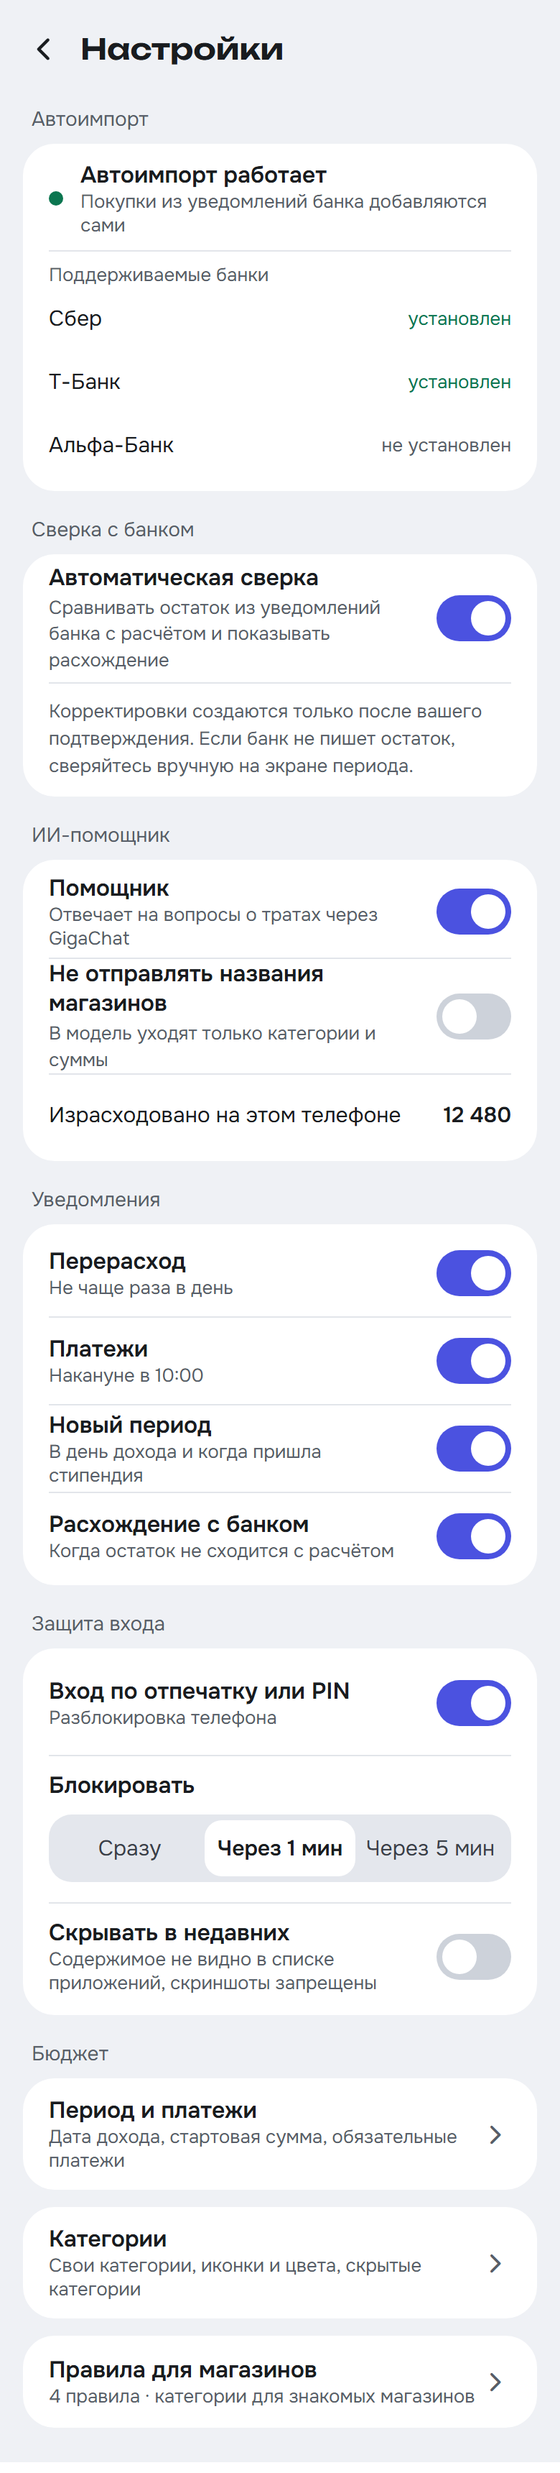
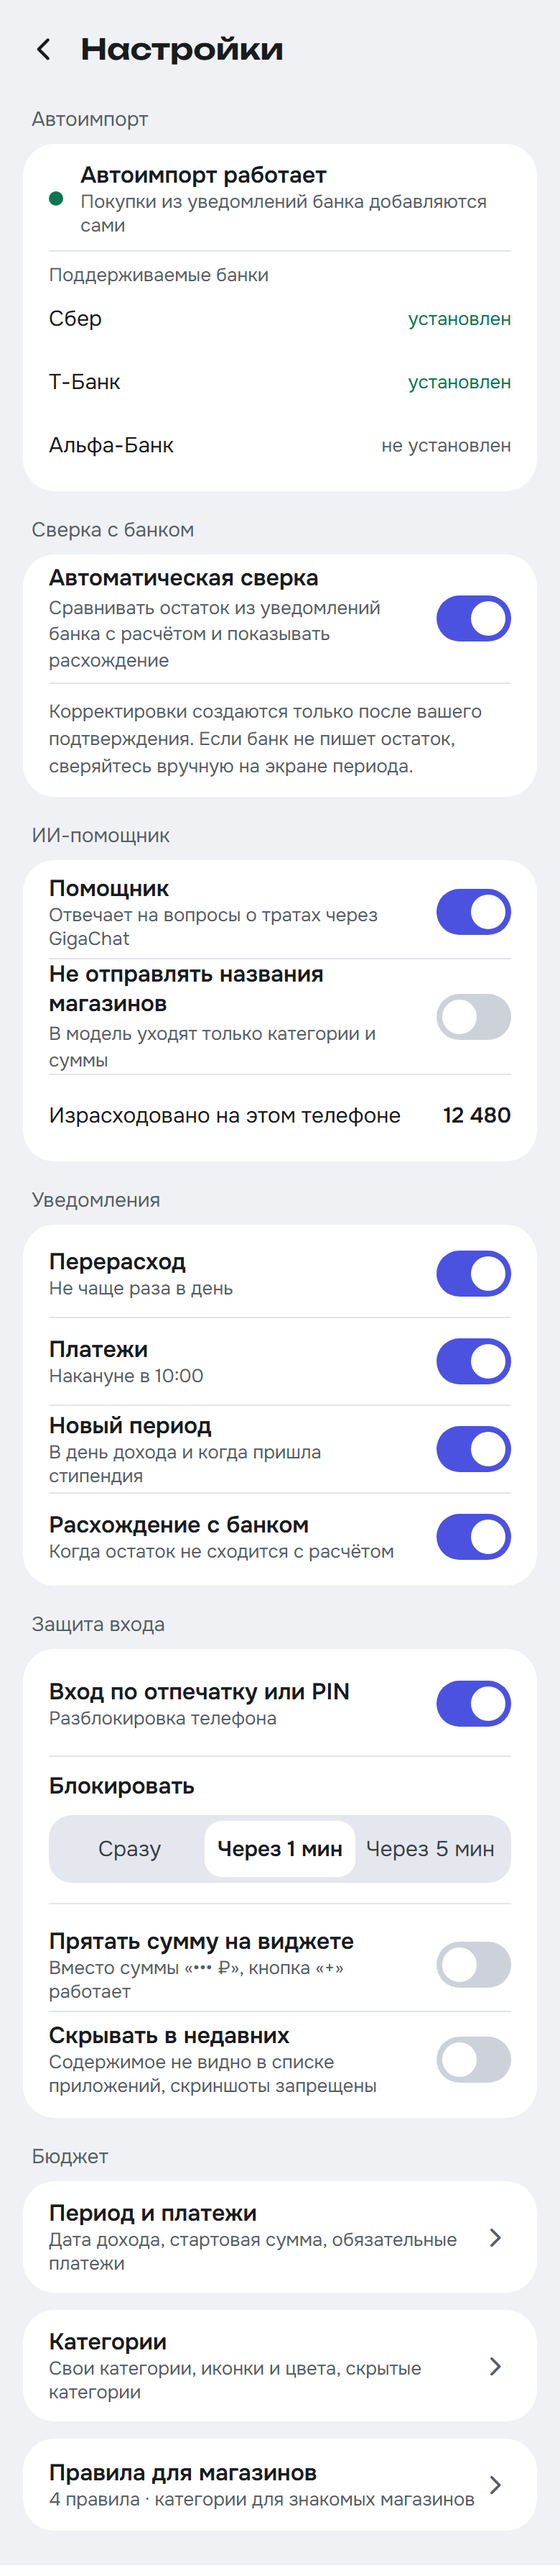
Виджет: две карточки, сумма при защите входа, короткие тире
В списке виджетов две карточки: «Можно сегодня» 2×1 и «Можно сегодня и «+»» 4×2. При защите входа сумма на виджете видна; спрятать её можно переключателем «Прятать сумму на виджете» в разделе «Защита входа». Длинные тире в текстах приложения заменены короткими.

diff --git a/app/src/main/java/ru/hznik/budget/widget/BudgetWidget.kt b/app/src/main/java/ru/hznik/budget/widget/BudgetWidget.kt
@@ -84,7 +84,7 @@ interface WidgetEntryPoint {
  * только сумма, средний 4×2 — сумма, доля лимита, дни до дохода и кнопка «+». Шрифты проекта виджету
  * недоступны (система рисует его своими), поэтому текст системным шрифтом.
  */
-class BudgetWidget : GlanceAppWidget() {
+open class BudgetWidget : GlanceAppWidget() {
     override val sizeMode = SizeMode.Responsive(setOf(SMALL, MEDIUM))
 
     override suspend fun provideGlance(context: Context, id: GlanceId) {
@@ -104,7 +104,7 @@ class BudgetWidget : GlanceAppWidget() {
         // Процесс мог запуститься ради виджета: базу сначала нужно проверить и открыть ключом.
         val ready = runCatching { entry.databaseAccess().open() == DatabaseState.READY }.getOrDefault(false)
         if (!ready) return flowOf(WidgetSnapshot.NoData)
-        return combine(entry.observePeriodStatus()(), entry.lockSettings().observe()) { status, lock -> WidgetSnapshot.of(status, lock.enabled) }
+        return combine(entry.observePeriodStatus()(), entry.lockSettings().observe()) { status, lock -> WidgetSnapshot.of(status, lock.widgetAmountHidden) }
             .distinctUntilChanged()
             .catch { emit(WidgetSnapshot.NoData) }
     }
@@ -115,14 +115,26 @@ class BudgetWidget : GlanceAppWidget() {
     }
 }
 
+/** Карточка «Можно сегодня» 2×1 в списке виджетов. */
 class BudgetWidgetReceiver : GlanceAppWidgetReceiver() {
     override val glanceAppWidget: GlanceAppWidget = BudgetWidget()
 }
+
+/**
+ * Карточка «Можно сегодня и «+»» 4×2: тот же виджет, другой стартовый размер и превью. Отдельный класс виджета,
+ * чтобы `updateAll` находил экземпляры каждой карточки.
+ */
+class BudgetWidgetLargeReceiver : GlanceAppWidgetReceiver() {
+    override val glanceAppWidget: GlanceAppWidget = BudgetWidgetLarge()
+}
+
+class BudgetWidgetLarge : BudgetWidget()
 
 /** Обновление всех виджетов на рабочем столе после изменения расчёта (решение 2). */
 class GlanceWidgetRefresher @Inject constructor(@ApplicationContext private val context: Context) : WidgetRefresher {
     override suspend fun refresh() {
         runCatching { BudgetWidget().updateAll(context) }
+        runCatching { BudgetWidgetLarge().updateAll(context) }
     }
 }
 

diff --git a/app/src/test/java/ru/hznik/budget/domain/reminders/NotificationPlannerTest.kt b/app/src/test/java/ru/hznik/budget/domain/reminders/NotificationPlannerTest.kt
@@ -6,6 +6,7 @@ import org.junit.Assert.assertTrue
 import org.junit.Test
 import ru.hznik.budget.domain.budget.BudgetCalculator
 import ru.hznik.budget.domain.budget.PeriodStatus
+import ru.hznik.budget.domain.lock.LockSettings
 import ru.hznik.budget.domain.model.Money
 import ru.hznik.budget.domain.model.Operation
 import ru.hznik.budget.domain.model.OperationSource
@@ -169,14 +170,21 @@ class NotificationPlannerTest {
 
     @Test
     fun `widget snapshot shows hides or has no data`() {
-        assertEquals(WidgetSnapshot.NoData, WidgetSnapshot.of(null, lockEnabled = false))
-        assertEquals(WidgetSnapshot.Hidden, WidgetSnapshot.of(status(), lockEnabled = true))
-        val shown = WidgetSnapshot.of(status(spentRubles = 100), lockEnabled = false) as WidgetSnapshot.Shown
+        assertEquals(WidgetSnapshot.NoData, WidgetSnapshot.of(null, amountHidden = false))
+        assertEquals(WidgetSnapshot.Hidden, WidgetSnapshot.of(status(), amountHidden = true))
+        val shown = WidgetSnapshot.of(status(spentRubles = 100), amountHidden = false) as WidgetSnapshot.Shown
         assertEquals(shown.dailyLimitKopecks - 100_00, shown.canSpendKopecks)
         assertTrue(shown.spentFraction > 0f && shown.spentFraction < 1f)
-        val over = WidgetSnapshot.of(status(spentRubles = 5_000), lockEnabled = false) as WidgetSnapshot.Shown
+        val over = WidgetSnapshot.of(status(spentRubles = 5_000), amountHidden = false) as WidgetSnapshot.Shown
         assertTrue(over.overspent)
         assertEquals(1f, over.spentFraction)
+    }
+
+    @Test
+    fun `widget amount is hidden only with lock and the switch`() {
+        assertEquals(false, LockSettings(enabled = true).widgetAmountHidden)
+        assertEquals(false, LockSettings(enabled = false, hideWidgetAmount = true).widgetAmountHidden)
+        assertEquals(true, LockSettings(enabled = true, hideWidgetAmount = true).widgetAmountHidden)
     }
 
     @Test

diff --git a/app/src/main/java/ru/hznik/budget/ui/settings/ProtectionSection.kt b/app/src/main/java/ru/hznik/budget/ui/settings/ProtectionSection.kt
@@ -68,6 +68,8 @@ class ProtectionViewModel @Inject constructor(private val repository: LockSettin
     fun setTimeout(timeout: LockTimeout) = viewModelScope.launch { repository.setTimeout(timeout) }
 
     fun setHideInRecents(hide: Boolean) = viewModelScope.launch { repository.setHideInRecents(hide) }
+
+    fun setHideWidgetAmount(hide: Boolean) = viewModelScope.launch { repository.setHideWidgetAmount(hide) }
 }
 
 /** Раздел «Защита входа» в настройках (spec app-lock, design.md add-data-protection, решение 10). */
@@ -138,6 +140,14 @@ fun ProtectionSection(viewModel: ProtectionViewModel = hiltViewModel()) {
                         onSelect = viewModel::setTimeout,
                     )
                 }
+                Divider()
+                SwitchRow(
+                    title = stringResource(R.string.protection_hide_widget),
+                    hint = stringResource(R.string.protection_hide_widget_hint),
+                    checked = current.hideWidgetAmount,
+                    enabled = true,
+                    onCheckedChange = viewModel::setHideWidgetAmount,
+                )
             }
             Divider()
             SwitchRow(

diff --git a/app/src/main/java/ru/hznik/budget/domain/reminders/WidgetSnapshot.kt b/app/src/main/java/ru/hznik/budget/domain/reminders/WidgetSnapshot.kt
@@ -7,7 +7,7 @@ sealed interface WidgetSnapshot {
     /** Онбординг не пройден, периода нет или база недоступна: «Откройте BudgetPlanner». */
     data object NoData : WidgetSnapshot
 
-    /** Включена защита входа: «••• ₽» и кнопка «+». */
+    /** Защита входа и «Прятать сумму на виджете»: «••• ₽» и кнопка «+». */
     data object Hidden : WidgetSnapshot
 
     /** Суммы в копейках; [spentFraction] — потраченная доля дневного лимита от 0 до 1. */
@@ -21,9 +21,9 @@ sealed interface WidgetSnapshot {
     }
 
     companion object {
-        fun of(status: PeriodStatus?, lockEnabled: Boolean): WidgetSnapshot = when {
+        fun of(status: PeriodStatus?, amountHidden: Boolean): WidgetSnapshot = when {
             status == null -> NoData
-            lockEnabled -> Hidden
+            amountHidden -> Hidden
             else -> {
                 val limit = status.dailyLimit
                 val fraction = if (limit <= 0) 1f else (status.spentToday.toFloat() / limit).coerceIn(0f, 1f)

diff --git a/app/src/main/java/ru/hznik/budget/domain/lock/AppLock.kt b/app/src/main/java/ru/hznik/budget/domain/lock/AppLock.kt
@@ -19,7 +19,12 @@ data class LockSettings(
     val enabled: Boolean = false,
     val timeout: LockTimeout = LockTimeout.ONE_MINUTE,
     val hideInRecents: Boolean = false,
-)
+    /** «Прятать сумму на виджете»; действует только при включённой защите, по умолчанию сумма видна. */
+    val hideWidgetAmount: Boolean = false,
+) {
+    /** Виджет показывает «••• ₽» вместо суммы. */
+    val widgetAmountHidden: Boolean get() = enabled && hideWidgetAmount
+}
 
 interface LockSettingsRepository {
     fun observe(): Flow<LockSettings>
@@ -29,6 +34,8 @@ interface LockSettingsRepository {
     suspend fun setTimeout(timeout: LockTimeout)
 
     suspend fun setHideInRecents(hide: Boolean)
+
+    suspend fun setHideWidgetAmount(hide: Boolean)
 }
 
 /** Монотонные часы: перевод часов телефона не должен сокращать или продлевать таймаут блокировки. */

diff --git a/app/src/androidTest/java/ru/hznik/budget/ui/LockFlowTest.kt b/app/src/androidTest/java/ru/hznik/budget/ui/LockFlowTest.kt
@@ -228,6 +228,21 @@ class ProtectionSettingsFlowTest : FlowTestBase() {
     }
 
     @Test
+    fun hideWidgetAmountAppearsWithProtectionAndIsOffByDefault() {
+        openSettings()
+        rule.onNodeWithText("Прятать сумму на виджете").assertDoesNotExist()
+
+        TestAuth.result = AuthResult.Success
+        switch("Вход по отпечатку или PIN").performScrollTo().performClick()
+        rule.waitUntil(5_000) { state.enabled }
+        switch("Прятать сумму на виджете").performScrollTo().assertIsOff()
+        assertFalse("сумма на виджете видна, пока переключатель выключен", state.widgetAmountHidden)
+
+        switch("Прятать сумму на виджете").performClick()
+        rule.waitUntil(5_000) { state.widgetAmountHidden }
+    }
+
+    @Test
     fun withoutScreenLockSwitchIsDisabledWithHint() {
         TestAuth.availability = AuthAvailability.NO_SCREEN_LOCK
         openSettings()

diff --git a/app/src/main/java/ru/hznik/budget/data/settings/LockSettingsStore.kt b/app/src/main/java/ru/hznik/budget/data/settings/LockSettingsStore.kt
@@ -21,6 +21,7 @@ class DataStoreLockSettingsRepository @Inject constructor(
             enabled = prefs[ENABLED] ?: false,
             timeout = prefs[TIMEOUT]?.let { name -> LockTimeout.entries.firstOrNull { it.name == name } } ?: LockTimeout.ONE_MINUTE,
             hideInRecents = prefs[HIDE_IN_RECENTS] ?: false,
+            hideWidgetAmount = prefs[HIDE_WIDGET_AMOUNT] ?: false,
         )
     }
 
@@ -36,9 +37,14 @@ class DataStoreLockSettingsRepository @Inject constructor(
         dataStore.edit { it[HIDE_IN_RECENTS] = hide }
     }
 
+    override suspend fun setHideWidgetAmount(hide: Boolean) {
+        dataStore.edit { it[HIDE_WIDGET_AMOUNT] = hide }
+    }
+
     private companion object {
         val ENABLED = booleanPreferencesKey("lock_enabled")
         val TIMEOUT = stringPreferencesKey("lock_timeout")
         val HIDE_IN_RECENTS = booleanPreferencesKey("lock_hide_in_recents")
+        val HIDE_WIDGET_AMOUNT = booleanPreferencesKey("lock_hide_widget_amount")
     }
 }

diff --git a/docs/design/mockups/Settings.html b/docs/design/mockups/Settings.html
@@ -109,6 +109,7 @@ h1{margin:18px 0 0;padding:0 24px;text-align:center;font-family:'Unbounded',sans
     <div class="t1">Блокировать</div>
     <div class="seg"><span>Сразу</span><span class="on">Через 1 мин</span><span>Через 5 мин</span></div>
     <div style="height:1px;background:var(--line);margin:14px 0 10px"></div>
+    <div class="row" style="min-height:64px;border-bottom:1px solid var(--line);margin-bottom:6px"><div style="flex:1"><div class="t1">Прятать сумму на виджете</div><div class="t2">Вместо суммы «••• ₽», кнопка «+» работает</div></div><span class="switch off"></span></div>
     <div class="row" style="min-height:52px"><div style="flex:1"><div class="t1">Скрывать в недавних</div><div class="t2">Содержимое не видно в списке приложений, скриншоты запрещены</div></div><span class="switch off"></span></div>
   </div>
 

diff --git a/docs/design/mockups/WidgetReminders.html b/docs/design/mockups/WidgetReminders.html
@@ -85,7 +85,7 @@ h1{margin:18px 0 0;padding:0 24px;text-align:center;font-family:'Unbounded',sans
     <div class="widget wsmall"><div style="font-size:12px;color:#B9BEC7">Можно сегодня</div><div style="font-family:'Unbounded',sans-serif;font-weight:600;font-size:26px;margin-top:2px">1 120 ₽</div></div>
     <div class="widget wsmall" style="margin-left:0"><div style="font-size:12px;color:#B9BEC7">Можно сегодня</div><div style="font-family:'Unbounded',sans-serif;font-weight:600;font-size:26px;margin-top:2px;color:var(--warnOnHero,#FF9A62)">−300 ₽</div></div>
   </div>
-  <div class="wlabel">Включена защита входа</div>
+  <div class="wlabel">Включено «Прятать сумму на виджете»</div>
   <div class="widget wmed" style="height:120px">
     <div style="flex:1;display:flex;flex-direction:column">
       <div style="font-size:13px;color:#B9BEC7">Можно сегодня</div>

diff --git a/app/src/androidTest/java/ru/hznik/budget/ui/ImportFlowTest.kt b/app/src/androidTest/java/ru/hznik/budget/ui/ImportFlowTest.kt
@@ -162,7 +162,7 @@ class ImportFlowTest : FlowTestBase() {
         waitForHero("Можно потратить сегодня 1500 рублей")
         sber("Зачисление стипендии 9 000 ₽. Баланс 9 450 ₽")
         rule.waitUntil(5_000) { rule.onAllNodes(hasTestTag(INCOME_SUGGESTION_TAG)).fetchSemanticsNodes().isNotEmpty() }
-        rule.onNode(hasText("Пришло 9 000 ₽ — начать новый период?", substring = true)).assertIsDisplayed()
+        rule.onNode(hasText("Пришло 9 000 ₽ - начать новый период?", substring = true)).assertIsDisplayed()
         rule.onNode(hasText("Не сейчас") and hasClickAction()).performClick()
         rule.waitUntil(5_000) { rule.onAllNodes(hasTestTag(INCOME_SUGGESTION_TAG)).fetchSemanticsNodes().isEmpty() }
     }

diff --git a/app/src/test/java/ru/hznik/budget/testing/Fakes.kt b/app/src/test/java/ru/hznik/budget/testing/Fakes.kt
@@ -303,6 +303,8 @@ class FakeLockSettingsRepository(initial: LockSettings = LockSettings()) : LockS
     override suspend fun setTimeout(timeout: LockTimeout) = state.update { it.copy(timeout = timeout) }
 
     override suspend fun setHideInRecents(hide: Boolean) = state.update { it.copy(hideInRecents = hide) }
+
+    override suspend fun setHideWidgetAmount(hide: Boolean) = state.update { it.copy(hideWidgetAmount = hide) }
 }
 
 /** Сверка в памяти; ожидаемый остаток считается по операциям [operations] по тем же правилам, что и SQL. */

diff --git a/app/src/main/java/ru/hznik/budget/ui/lock/AppRootViewModel.kt b/app/src/main/java/ru/hznik/budget/ui/lock/AppRootViewModel.kt
@@ -118,7 +118,7 @@ class AppRootViewModel @Inject constructor(
         }
         if (statusWatcher != null) return
         statusWatcher = viewModelScope.launch {
-            combine(observeStatus.get()(), lockSettings.observe().map { it.enabled }.distinctUntilChanged()) { status, locked -> status to locked }
+            combine(observeStatus.get()(), lockSettings.observe().map { it.widgetAmountHidden }.distinctUntilChanged()) { status, locked -> status to locked }
                 .conflate()
                 .collect { runCatching { checkNotifications.get().invoke() } }
         }
